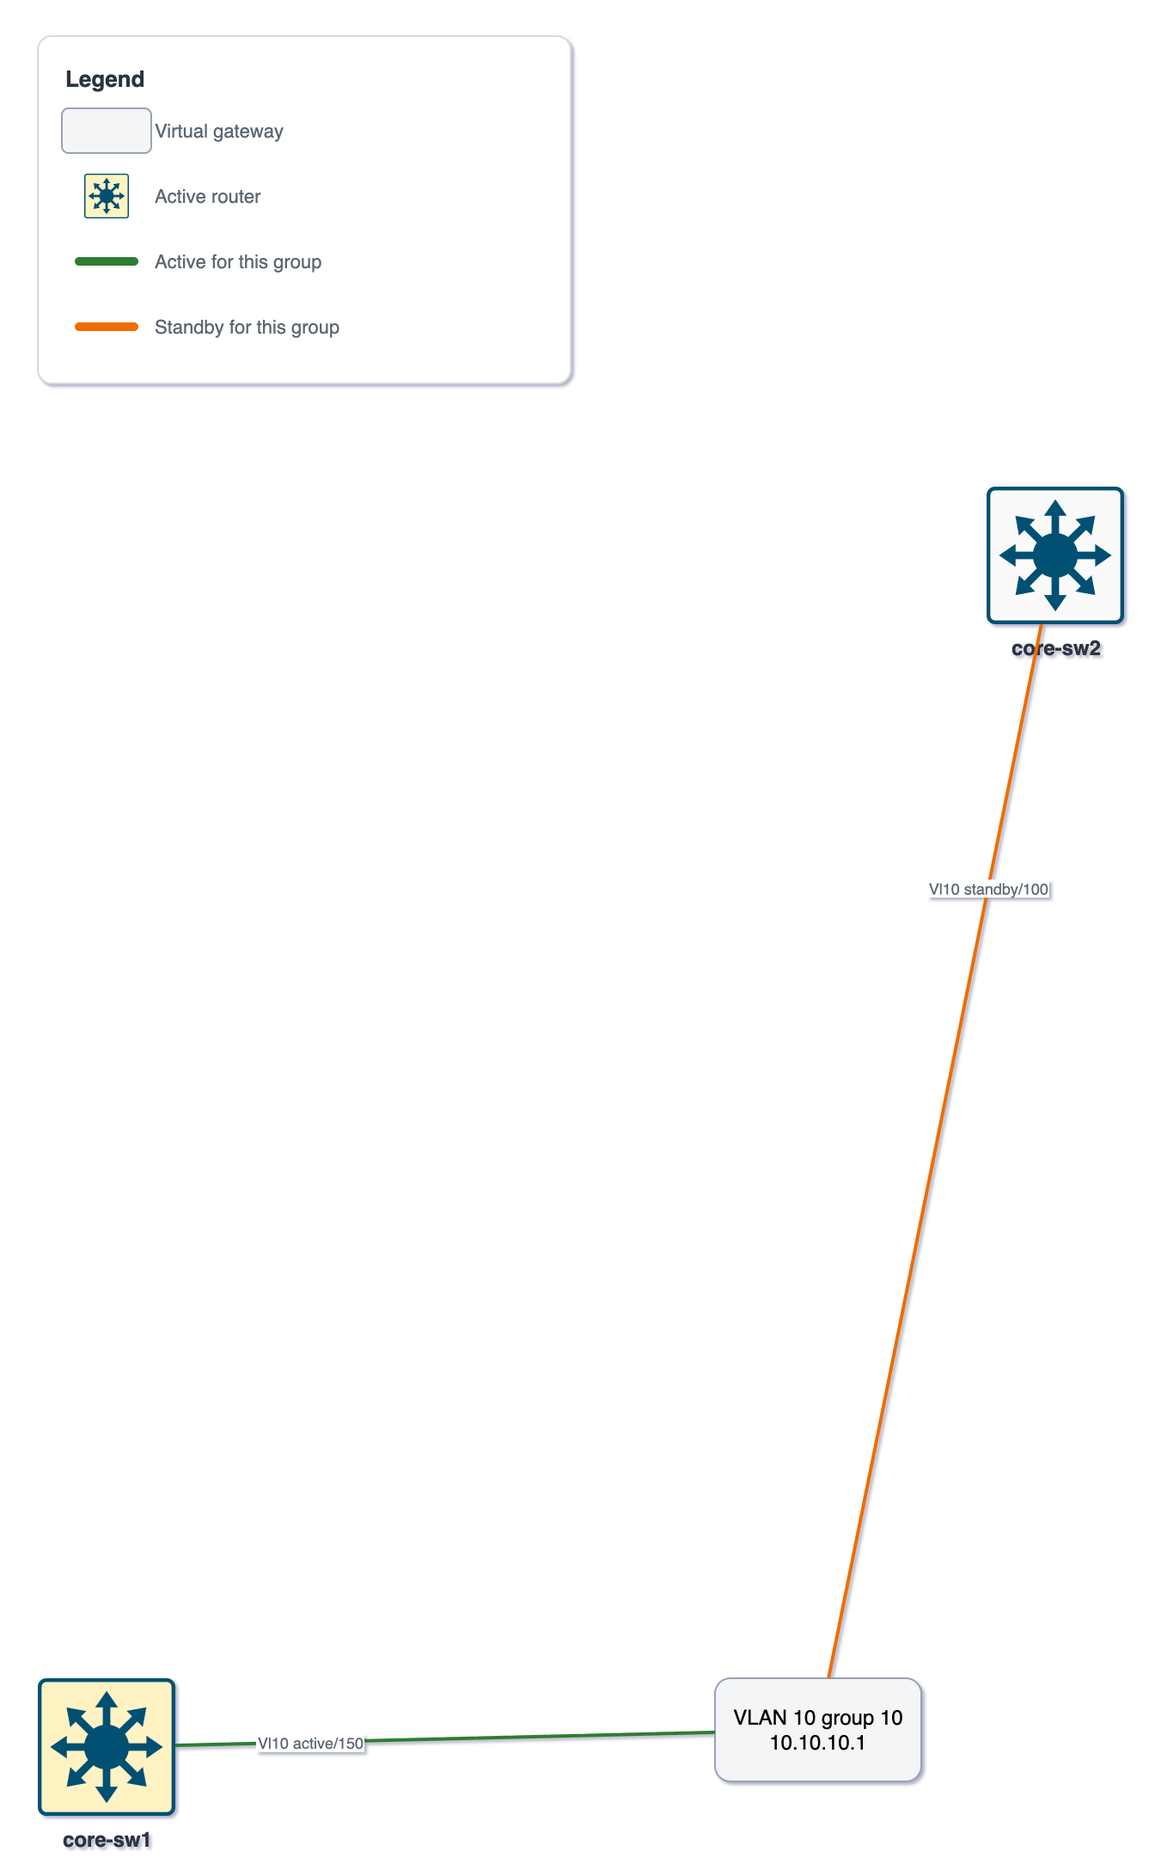
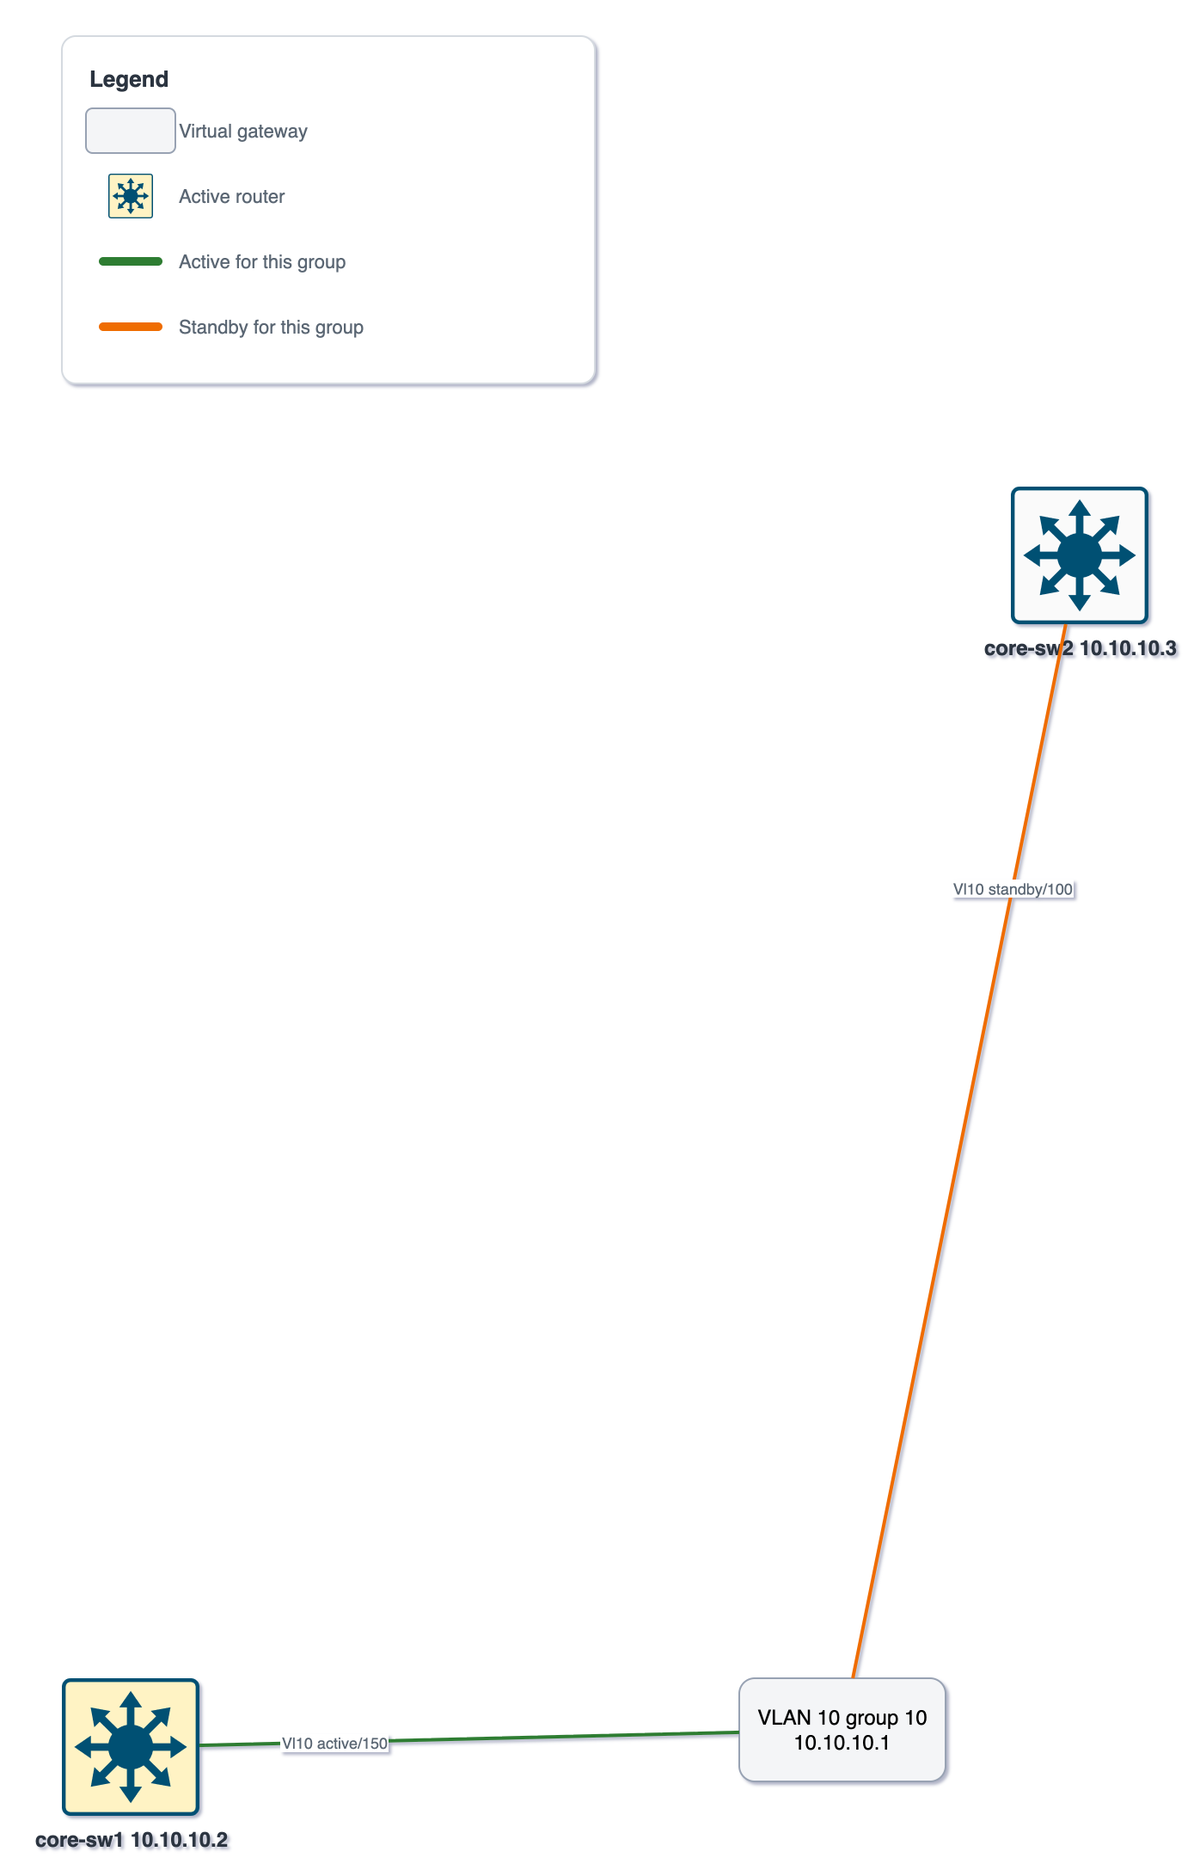
Label each HSRP member with its own SVI address
The diagram showed the virtual IP and nothing else, so a reader could see that
`core-sw1` answers for `10.10.10.1` but not which address `core-sw1` itself
holds -- the thing that identifies a box behind a traceroute hop or a ping
reply.

`show standby brief` cannot supply it. Its Active and Standby columns name those
two routers by address and no one else, so in a group with four members the two
that are merely listening appear in that output with no address at all.
`parsing/interfaces.py` already parses every SVI's address out of `show ip
interface brief`/`show interfaces` into `Device.interfaces`, so the view joins
what the model already holds rather than parsing anything new. A capture with
neither command leaves the node labeled with its name alone rather than
inventing an address.

Any of a router's members supplies the SVI name to look up: a diagram covers one
VLAN, so every group in it sits on that VLAN's single SVI.

diff --git a/tests/test_views_hsrp.py b/tests/test_views_hsrp.py
@@ -10,6 +10,8 @@ from nettopo.model.entities import (
     HsrpGroup,
     HsrpMember,
     HsrpRole,
+    Interface,
+    InterfaceType,
     NetworkModel,
 )
 from nettopo.model.grouping import GroupMode
@@ -17,6 +19,15 @@ from nettopo.views import hsrp
 
 _ACTIVE_COLOR = "#2E7D32"
 _STANDBY_COLOR = "#EF6C00"
+
+
+def _router(hostname: str, vlan: int, address: str | None) -> Device:
+    """A source device whose SVI for `vlan` holds `address`, as `show ip int brief` reports."""
+    device = Device(hostname=hostname, is_source=True, role=DeviceRole.L3_SWITCH)
+    device.interfaces[f"Vl{vlan}"] = Interface(
+        name=f"Vl{vlan}", type=InterfaceType.SVI, ip_address=address
+    )
+    return device
 
 
 def _member(device: str, vlan: int, group: int, priority: int, role: HsrpRole) -> HsrpMember:
@@ -45,8 +56,8 @@ def _pair_model() -> NetworkModel:
     """Two gateways, active/standby on VLAN 10 and swapped on VLAN 30."""
     model = NetworkModel(
         devices={
-            "gw-a": Device(hostname="gw-a", is_source=True, role=DeviceRole.L3_SWITCH),
-            "gw-b": Device(hostname="gw-b", is_source=True, role=DeviceRole.L3_SWITCH),
+            "gw-a": _router("gw-a", 10, "10.0.10.2"),
+            "gw-b": _router("gw-b", 10, "10.0.10.3"),
         }
     )
     model.hsrp = dict(
@@ -106,6 +117,77 @@ def test_links_carry_the_svi_role_and_priority_and_are_colored_by_role() -> None
 
     assert (active.src_label, active.color) == ("Vl10 active/150", _ACTIVE_COLOR)
     assert (standby.src_label, standby.color) == ("Vl10 standby/100", _STANDBY_COLOR)
+
+
+def test_each_router_carries_its_own_svi_address_under_its_name() -> None:
+    """The real addresses, beside the virtual one, say which box a given hop actually is."""
+    (diagram_group,) = hsrp.build_groups(_pair_model(), vlan=10)
+    (_gateway, gw_a, gw_b) = diagram_group.diagram.nodes
+
+    assert gw_a.label == "gw-a\n10.0.10.2"
+    assert gw_b.label == "gw-b\n10.0.10.3"
+
+
+def test_a_router_whose_svi_address_is_unknown_is_labeled_with_its_name_alone() -> None:
+    """`show standby brief` carries no addresses of its own, so a capture without
+    `show ip interface brief` leaves nothing to show rather than an invented address."""
+    model = NetworkModel(devices={"gw-a": Device(hostname="gw-a", is_source=True)})
+    model.hsrp = dict([_group(10, 10, "10.0.10.1", _member("gw-a", 10, 10, 100, HsrpRole.ACTIVE))])
+
+    (diagram_group,) = hsrp.build_groups(model, vlan=10)
+    (_gateway, router) = diagram_group.diagram.nodes
+    assert router.label == "gw-a"
+
+
+def test_every_member_shows_its_address_including_the_listening_ones() -> None:
+    """Four routers, one active, one standby, two listening.
+
+    The two listeners are the case that needs `show ip interface brief`: `show standby
+    brief` names the active and standby routers by address and no one else, so nothing
+    else in the captures could place them.
+    """
+    model = NetworkModel(
+        devices={
+            hostname: _router(hostname, 10, address)
+            for hostname, address in (
+                ("gw-a", "10.0.10.2"),
+                ("gw-b", "10.0.10.3"),
+                ("gw-c", "10.0.10.4"),
+                ("gw-d", "10.0.10.5"),
+            )
+        }
+    )
+    model.hsrp = dict(
+        [
+            _group(
+                10,
+                10,
+                "10.0.10.1",
+                _member("gw-a", 10, 10, 150, HsrpRole.ACTIVE),
+                _member("gw-b", 10, 10, 140, HsrpRole.STANDBY),
+                _member("gw-c", 10, 10, 100, HsrpRole.LISTEN),
+                _member("gw-d", 10, 10, 90, HsrpRole.LISTEN),
+            )
+        ]
+    )
+
+    (diagram_group,) = hsrp.build_groups(model, vlan=10)
+    diagram = diagram_group.diagram
+
+    assert [node.label for node in diagram.nodes] == [
+        "VLAN 10 group 10\n10.0.10.1",
+        "gw-a\n10.0.10.2",
+        "gw-b\n10.0.10.3",
+        "gw-c\n10.0.10.4",
+        "gw-d\n10.0.10.5",
+    ]
+    assert [(link.source, link.src_label, link.color) for link in diagram.links] == [
+        ("gw-a", "Vl10 active/150", _ACTIVE_COLOR),
+        ("gw-b", "Vl10 standby/140", _STANDBY_COLOR),
+        ("gw-c", "Vl10 listen/100", None),
+        ("gw-d", "Vl10 listen/90", None),
+    ]
+    assert [node.id for node in diagram.nodes if node.highlight] == ["gw-a"]
 
 
 def test_only_the_active_router_is_highlighted() -> None:

diff --git a/src/nettopo/views/hsrp.py b/src/nettopo/views/hsrp.py
@@ -7,9 +7,11 @@ active; it says nothing about which cable joins them, and the segment they share
 broadcast domain rather than a set of point-to-point links. So this view does not go to
 `model.links` at all (the STP view's whole difficulty). Each HSRP group is drawn as a
 **virtual gateway node** -- the address hosts actually point at -- with one link to each
-router that offers it, labeled with that router's SVI, role and priority. What the reader
-needs from an HSRP diagram is which box answers for the gateway and which one takes over,
-and that is exactly what a star around the virtual IP shows.
+router that offers it, labeled with that router's SVI, role and priority. Every router
+also carries its own SVI address under its name, so the diagram shows both halves of the
+first hop: the address hosts are configured with, and the real addresses behind it. What
+the reader needs from an HSRP diagram is which box answers for the gateway and which one
+takes over, and that is exactly what a star around the virtual IP shows.
 
 A diagram covers one VLAN and every HSRP group configured on it, since one SVI can carry
 several groups (load-sharing across two gateways). Grouping is therefore per VLAN too: a
@@ -28,7 +30,7 @@ from __future__ import annotations
 
 from collections import defaultdict
 
-from nettopo.model.entities import DeviceRole, HsrpGroup, HsrpRole, NetworkModel
+from nettopo.model.entities import DeviceRole, HsrpGroup, HsrpMember, HsrpRole, NetworkModel
 from nettopo.model.grouping import GroupMode, hsrp_fingerprint
 from nettopo.views.diagram import (
     Diagram,
@@ -130,23 +132,19 @@ def _build_nodes(model: NetworkModel, hsrp_groups: list[HsrpGroup]) -> list[Diag
         for hsrp_group in hsrp_groups
     ]
 
-    active_devices = {
-        member.device
-        for hsrp_group in hsrp_groups
-        for member in hsrp_group.members.values()
-        if member.role is HsrpRole.ACTIVE
-    }
-    member_devices = {
-        member.device for hsrp_group in hsrp_groups for member in hsrp_group.members.values()
-    }
+    members_by_device: dict[str, list[HsrpMember]] = defaultdict(list)
+    for hsrp_group in hsrp_groups:
+        for member in hsrp_group.members.values():
+            members_by_device[member.device].append(member)
+
     nodes.extend(
         DiagramNode(
             id=hostname,
-            label=hostname,
+            label=_member_label(model, hostname, members[0].interface),
             role=_node_role(model, hostname),
-            highlight=hostname in active_devices,
+            highlight=any(member.role is HsrpRole.ACTIVE for member in members),
         )
-        for hostname in sorted(member_devices)
+        for hostname, members in sorted(members_by_device.items())
     )
     return nodes
 
@@ -157,6 +155,25 @@ def _gateway_label(hsrp_group: HsrpGroup) -> str:
     if hsrp_group.virtual_ip is None:
         return heading
     return f"{heading}\n{hsrp_group.virtual_ip}"
+
+
+def _member_label(model: NetworkModel, hostname: str, interface: str) -> str:
+    """Name the router, over the address its own SVI holds in this VLAN.
+
+    The real address beside the virtual one is what tells a reader which box a given
+    traceroute hop or ping reply came from -- and it is the only address at all for a
+    member that is neither active nor standby, since `show standby brief` names those two
+    routers by address and no one else. It is read off `Device.interfaces`, populated by
+    `show ip interface brief`/`show interfaces`, so a capture carrying neither leaves the
+    node labeled with its name alone rather than inventing one.
+
+    Any of the router's members will do for `interface`: a diagram covers one VLAN, so
+    every group in it sits on that VLAN's single SVI.
+    """
+    device = model.devices.get(hostname)
+    svi = device.interfaces.get(interface) if device is not None else None
+    address = svi.ip_address if svi is not None else None
+    return f"{hostname}\n{address}" if address else hostname
 
 
 def _node_role(model: NetworkModel, hostname: str) -> DeviceRole:

diff --git a/tests/test_examples_campus.py b/tests/test_examples_campus.py
@@ -153,8 +153,11 @@ def test_hsrp_diagram_matches_the_readme(campus: NetworkModel) -> None:
     (diagram_group,) = hsrp_view.build_groups(campus, vlan=10)
     diagram = diagram_group.diagram
 
-    (gateway, *_routers) = diagram.nodes
-    assert gateway.label == "VLAN 10 group 10\n10.10.10.1"
+    assert [node.label for node in diagram.nodes] == [
+        "VLAN 10 group 10\n10.10.10.1",
+        "core-sw1\n10.10.10.2",  # each router's own SVI address, beside the virtual one
+        "core-sw2\n10.10.10.3",
+    ]
     assert [node.id for node in diagram.nodes if node.highlight] == ["core-sw1"]
     assert [(link.source, link.src_label, link.color) for link in diagram.links] == [
         ("core-sw1", "Vl10 active/150", _HSRP_ACTIVE_COLOR),

diff --git a/README.md b/README.md
@@ -169,12 +169,14 @@ differ. That is precisely the line between the two grouping modes:
 The core pair also runs HSRP on VLANs 10, 20 and 30, aligned with the spanning trees:
 `core-sw1` is active where it is root, `core-sw2` is active for VLAN 30. The rounded box
 is not a device — it is the virtual gateway `10.10.10.1`, the address the VLAN's hosts are
-configured with. Each router links to it labeled with its SVI, HSRP role and priority:
-green for the router currently answering, amber for the one waiting to take over. The
-active router carries the same gold card the STP view gives a root bridge.
+configured with. Each router carries its own SVI address (`10.10.10.2`, `10.10.10.3`)
+under its name, so both halves of the first hop are on the page, and links to the gateway
+labeled with its SVI, HSRP role and priority: green for the router currently answering,
+amber for the one waiting to take over. The active router carries the same gold card the
+STP view gives a root bridge.
 
-![HSRP for VLAN 10: core-sw1 active with priority 150 on a green link to the virtual
-gateway 10.10.10.1, core-sw2 standby with priority 100 on an amber
+![HSRP for VLAN 10: core-sw1 at 10.10.10.2 active with priority 150 on a green link to the
+virtual gateway 10.10.10.1, core-sw2 at 10.10.10.3 standby with priority 100 on an amber
 link](examples/campus/diagrams/hsrp/hsrp_vlan10.png)
 
 Source: [`hsrp/hsrp_vlan10.drawio`](examples/campus/diagrams/hsrp/hsrp_vlan10.drawio).
@@ -334,10 +336,10 @@ filesystem-safe name listing every VLAN it covers, e.g.
 ### `nettopo hsrp`
 
 Renders per-VLAN HSRP diagrams: which routers offer the VLAN's default gateway, which one
-currently answers for it, and at what priority. Needs only `show standby brief` in the
-captures — unlike `stp`, this view draws no physical links, so no neighbor-discovery
-command is required (`show version` still helps, by naming each device from its own
-capture rather than from its filename).
+currently answers for it, at what priority, and on which address. Needs only `show standby
+brief` in the captures — unlike `stp`, this view draws no physical links, so no
+neighbor-discovery command is required (`show version` still helps, by naming each device
+from its own capture rather than from its filename).
 
 Each HSRP group is drawn as a **virtual gateway**: a plain rounded box labeled with the
 VLAN, the group number and the virtual IP. It is deliberately not given a Cisco icon,
@@ -345,6 +347,14 @@ because it is an address rather than a device. Every router running that group l
 it, labeled `Vl10 active/150` — its SVI, HSRP role and priority — with the link colored
 green when that router is active for the group and amber when it is the standby. The
 active router itself is highlighted with a gold card.
+
+Each router is also labeled with **its own SVI address** in that VLAN, beside the virtual
+one, which is what tells you which box a given traceroute hop or ping reply actually is.
+That address comes from `show ip interface brief` (or `show interfaces`), not from `show
+standby brief` — the brief output names only the active and standby routers, and only by
+address, so a member that is merely listening cannot be placed from it at all. Add one of
+those two commands to the captures and every member gets its address; without them the
+nodes are labeled with their names alone rather than a guess.
 
 One VLAN is one diagram, including when its SVI carries **several groups**: two gateways
 load-sharing a VLAN (each active for one group, standby for the other) is one picture with
@@ -402,7 +412,7 @@ is what each subcommand needs to produce a *complete* result.
 | `parse` | — | every command in the next table; each fills its own CSV table or columns |
 | `l2` | `show cdp neighbors detail` and/or `show lldp neighbors detail` | `show version` (device naming) · `show etherchannel summary` / `show port-channel summary` (only for `--link-mode port-channel`) |
 | `stp` | `show spanning-tree` **and** `show cdp neighbors detail` / `show lldp neighbors detail` | `show version` (device naming) · `show etherchannel summary` / `show port-channel summary` (**required** when links are bundled) · `show lldp neighbors detail` (to identify a root bridge outside the captures) |
-| `hsrp` | `show standby brief` | `show version` (device naming) |
+| `hsrp` | `show standby brief` | `show ip interface brief` / `show interfaces` (each member's own SVI address on its node) · `show version` (device naming) |
 | `bgp` | `show ip bgp summary` — *not yet implemented (Phase 6)* | |
 
 > **`stp` needs CDP/LLDP too.** `show spanning-tree` reports a device's *own* bridge and
@@ -425,7 +435,7 @@ What each command contributes, whichever subcommand you run:
 | `show version` | `platform`, `model`, `os` and `serial` in `devices.csv`, and the canonical hostname every neighbor's spelling is correlated onto — without it that name falls back to the prompt line, which is usually the same |
 | `show cdp neighbors detail` | Links between devices (`neighbors.csv`, and the links in both the L2 and STP diagrams), plus each neighbor's role/icon, platform and management IP |
 | `show lldp neighbors detail` | The same, for neighbors that don't speak CDP. Where both describe one adjacency, CDP wins |
-| `show ip interface brief` | `interfaces.csv`: admin/operational state and IP per interface |
+| `show ip interface brief` | `interfaces.csv`: admin/operational state and IP per interface — including the SVI addresses the HSRP diagrams label their routers with |
 | `show interfaces` | `interfaces.csv`: descriptions, precise IP/prefix, link state. Richer than `show ip interface brief` and wins where the two overlap |
 | `show vlan brief` | `vlans.csv` |
 | `show spanning-tree` | `stp.csv` and the STP diagrams: bridge IDs, base and effective priority, per-port role/state |

diff --git a/docs/architecture.md b/docs/architecture.md
@@ -442,7 +442,7 @@ parsed captures in `tests/test_views_stp.py` and `tests/fixtures/stp_topology/`.
 |---|---|---|---|---|
 | L2 | `views/l2.py` | `model.devices`, `model.links` | `--endpoints all\|network-only`, `--link-mode physical\|port-channel` | one `Diagram` |
 | STP | `views/stp.py` | `model.stp`, `model.links`, `model.devices` | `--vlan`, `--group-mode` | one `Diagram` per VLAN or per topology group |
-| HSRP | `views/hsrp.py` | `model.hsrp`, `model.devices` | `--vlan`, `--group-mode` | one `Diagram` per VLAN or per matching group |
+| HSRP | `views/hsrp.py` | `model.hsrp`, `model.devices` (for each member's SVI address) | `--vlan`, `--group-mode` | one `Diagram` per VLAN or per matching group |
 | BGP | `views/bgp.py` | — | — | not yet implemented (Phase 6) |
 
 ### Why the STP view cross-references `model.links`
@@ -474,6 +474,17 @@ or amber for standby. The gateway node is deliberately `DeviceRole.UNKNOWN`, whi
 `render/icons.py` draws as a plain box: it is an address, not a device, and giving it a
 Cisco icon would say otherwise. Its id is namespaced (`hsrp:vlan10:group10`) so it cannot
 collide with a member node, which is keyed by hostname.
+
+**Where each member's own address comes from.** A router node is labeled with the address
+its SVI holds in that VLAN, beside the group's virtual one, because that is what identifies
+the box behind a traceroute hop or a ping reply. `show standby brief` cannot supply it:
+its Active and Standby columns name those two routers by address and no one else, so in a
+group with four members the two that are merely listening have no address anywhere in that
+output. The view therefore reads `Device.interfaces[svi].ip_address`, populated by
+`parsing/interfaces.py` from `show ip interface brief`/`show interfaces` — data the model
+already held, joined rather than re-parsed. A capture with neither command leaves the node
+labeled with its name alone. Any of a router's members supplies the SVI name to look up:
+a diagram covers one VLAN, so every group in it sits on that VLAN's single SVI.
 
 A diagram covers one VLAN and **every** group on it, because one SVI can carry several
 (two gateways load-sharing a VLAN, each active for one group). That also fixes the unit of

diff --git a/CHANGELOG.md b/CHANGELOG.md
@@ -20,8 +20,13 @@ Phase 5: HSRP.
   matching group under `--group-mode`. Each HSRP group is drawn as a **virtual gateway**
   node — the address hosts actually point at — with one link to every router that offers
   it, labeled with that router's SVI, role and priority and colored green for active,
-  amber for standby. The active router is highlighted. Several groups on one SVI (two
-  gateways load-sharing a VLAN) share a diagram.
+  amber for standby. The active router is highlighted. Each router node also carries its
+  **own** SVI address in that VLAN beside the virtual one, so both halves of the first hop
+  are on the page; that address comes from `show ip interface brief`/`show interfaces`,
+  because `show standby brief` names only the active and standby routers by address and a
+  merely listening member appears in it nowhere. A capture with neither command leaves the
+  node labeled with its name alone. Several groups on one SVI (two gateways load-sharing a
+  VLAN) share a diagram.
 - `nettopo hsrp -i <dir> [--vlan N | --group-mode per-vlan|strict|topology] [--all]` is
   real, writing `output/hsrp/hsrp_vlan10.drawio` (or `hsrp_vlans-10_20.drawio` for a
   group) on the same naming rule as `stp`.

diff --git a/PROJECT_SPEC.md b/PROJECT_SPEC.md
@@ -485,7 +485,10 @@ render-ready nodes/links. Views never parse text and never write files.
   Each group is drawn as a **virtual gateway node** — the address hosts point at — with
   one link to each router that offers it, labeled with that router's SVI, role and
   priority, colored green for active and amber for standby; the active router is
-  highlighted. A diagram covers one VLAN and every group on it. Because a grouped diagram
+  highlighted. Each router node also carries its **own** SVI address in that VLAN, read
+  from `Device.interfaces` (i.e. from `show ip interface brief`/`show interfaces`) — `show
+  standby brief` names only the active and standby routers by address, so a listening
+  member could not otherwise be placed. A diagram covers one VLAN and every group on it. Because a grouped diagram
   renders one representative VLAN (as the STP view does) and the virtual IP is precisely
   what differs between grouped VLANs, the gateway node names the VLAN it was drawn from.
 - **`bgp`** — nodes = devices (labeled with ASN), edges = BGP sessions labeled with state;
